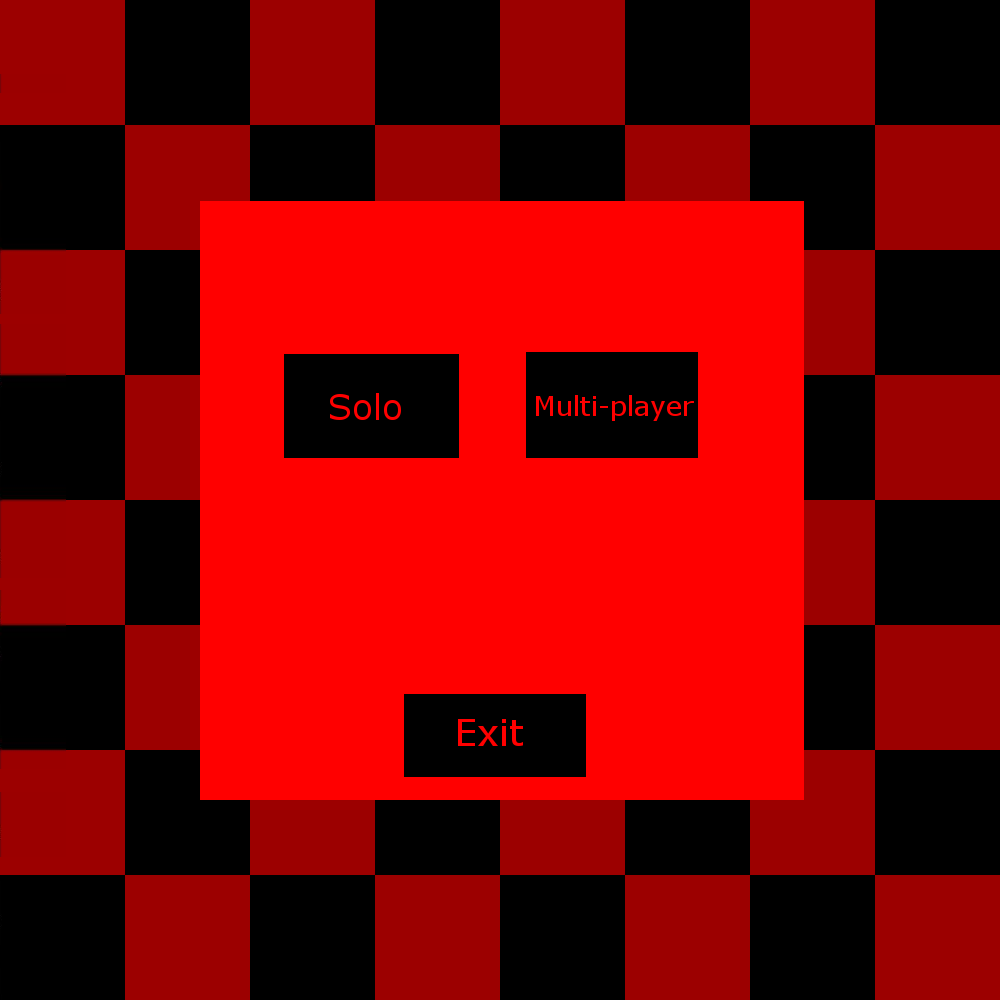
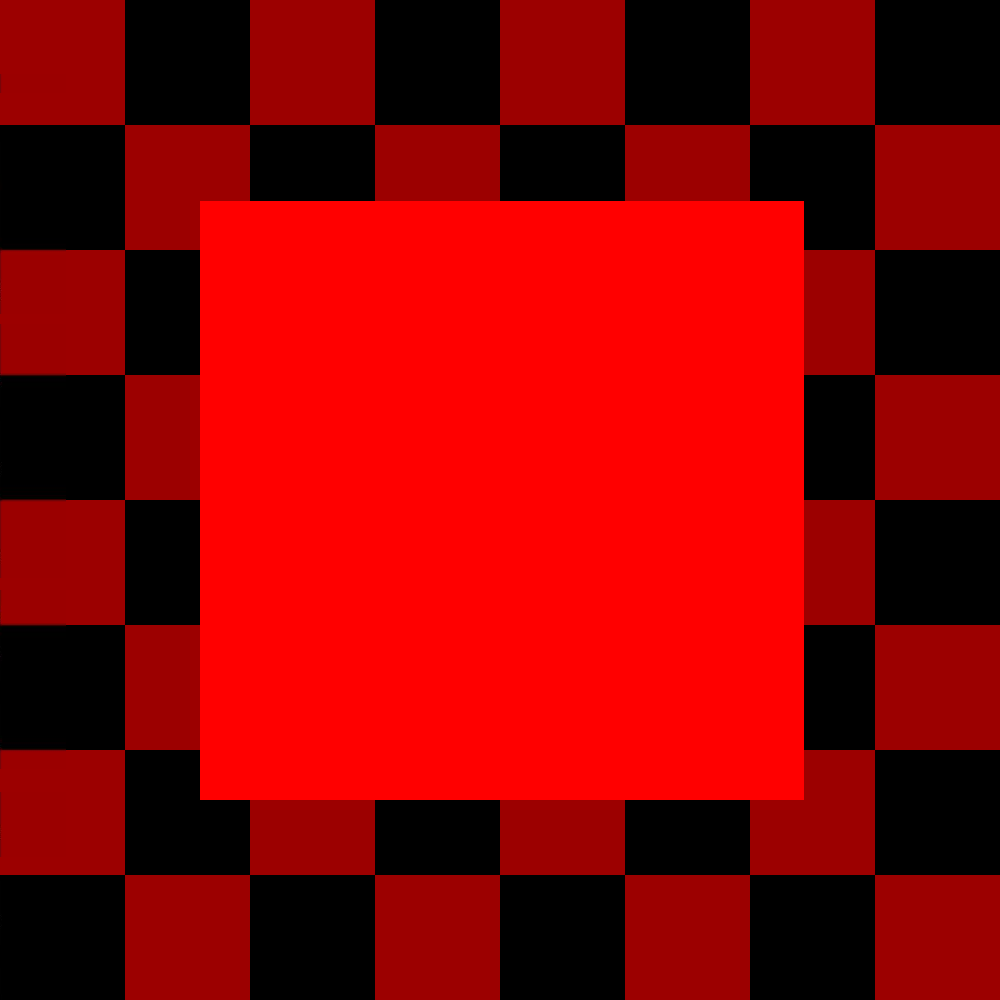
Fixed the double jump bug and changed the button setup

Changed region(s): [[0.527, 0.341, 0.713, 0.465], [0.279, 0.341, 0.465, 0.465], [0.403, 0.682, 0.589, 0.775]]

diff --git a/game.py b/game.py
@@ -81,33 +81,34 @@ PIECE_VOID = 9      # No piece drawn -- Border of BitMap
 ## and the top of the board with black pieces being up.                                         ##
 ## ============================================================================================ ##
 ## (2, 2) = Jump up right;         (2, -2) = Jump down left;                                    ##
-## (-2, -2) = Jump up left;     (-2, 2) = Jump up right;                                        ##
-## (1, 1) = Down right;              (1, -1) = Down left;                                       ##
-## (-1, -1) = Up left;          (-1, 1) = Up right;                                             ##
+## (-2, -2) = Jump up left;        (-2, 2) = Jump up right;                                     ##
+## (1, 1) = Down right;            (1, -1) = Down left;                                         ##
+## (-1, -1) = Up left;             (-1, 1) = Up right;                                          ##
 ## ============================================================================================ ##
 ## The numbers represent the difference of the pieces initial coordinates on the BitMap         ##
 ## - as in a set of numbers such as 7, 4; 7 being the X coordinate and 3 being the Y coordinate ##
 ## - and the pieces new coordinates. Thus if the piece moves from 7, 4 to 6, 5                  ##
-## - a perfectly legal move - it would return (-1, 1) which indicates Forward right.             ##
+## - a perfectly legal move - it would return (-1, 1) which indicates Forward right.            ##
 ## ============================================================================================ ##
 possibleMoves = [(2,2),(2,-2),(-2,-2),(-2,2),(1,1),(1,-1),(-1,1),(-1,-1)] # All possible moves
 movesWithoutJumps = [(1,1),(1,-1),(-1,-1),(-1,1)]                         # Moves without jumps
 ## ============================================================================================ ##
 
 ## ===================================================== State Variables =============================================================== ##
-gameOver = False        # Determines if game is over
-gameStarted = False     # Determines if game is started
-playerWon = "Winner"    # Keeps track of the winner
-redTurn = False         # Turn feature
-selectedPiece = None    # Shows if there is a piece selected
-computerPlayer = False  # Makes the computer play
-computerState = 0       # Used to see what the computer is doing - if it equals 1 it is a red piece, if it equals 2 it is a black piece
-computerMove = None     # Assigns the best move to the computer that the computer will then do
-computerTimer = 0       # Timer for the AI - used so that the computer is not super fast - makes it more playable 
-moveList = []           # Stores lists of moves that the AI uses
-playingRecord = False
-playState = 0
-playIndex = 0
+gameOver = False            # Determines if game is over
+gameStarted = False         # Determines if game is started
+playerWon = "Winner"        # Keeps track of the winner
+redTurn = False             # Turn feature
+selectedPiece = None        # Shows if there is a piece selected
+computerPlayer = False      # Makes the computer play
+computerState = 0           # Used to see what the computer is doing - if it equals 1 it is a red piece, if it equals 2 it is a black piece
+computerMove = None         # Assigns the best move to the computer that the computer will then do
+computerTimer = 0           # Timer for the AI - used so that the computer is not super fast - makes it more playable 
+moveList = []               # Stores lists of moves that the AI uses
+playingRecord = False       # Determines if the recording is being played
+playState = 0               # Used for going through the recorded game
+playIndex = 0               # Same as above
+awaitingSecondJump = False  # For double jump checking - making sure pieces are used correctly
 ## ===================================================================================================================================== ##
 
 ## ========================== Loads Images ============================== ##
@@ -189,10 +190,10 @@ class piece:
             unit_Y = diff_Y / abs(diff_Y)
             if abs(diff_X) > 1:
                 if board[temp_Y - unit_Y][temp_X - unit_X] == self.otherColor:    # If diff_X is greater than one and is a black piece it is a valid jump
-                    return True, move(self.x,self.y,temp_X,temp_Y) , True                             # Returns True (it can move) - temp_X and temp_Y (the coordinates after the move) - and True (since it is a jump move)
+                    return True, move(self.x,self.y,temp_X,temp_Y) , True         # Returns True (it can move) - temp_X and temp_Y (the coordinates after the move) - and True (since it is a jump move)
                 else:                                                             # Else the above falls through - returns False (it cannot move) 
                     return False,                                                 # returns False (it cannot move)  
-            return True, move(self.x,self.y,temp_X,temp_Y) , False                                    # Applies the first if - assuming all else falls through - returns True (it can move) - temp_X and temp_Y (the coordinates after the move) - and True (it is not a jump)
+            return True, move(self.x,self.y,temp_X,temp_Y) , False                # Applies the first if - assuming all else falls through - returns True (it can move) - temp_X and temp_Y (the coordinates after the move) - and False (it is not a jump)
         return False,                                                             # Assuming none of the above apply returns False (it cannot move) 
     
     def doMove(self, x, y, notReallyDead=False):
@@ -418,7 +419,7 @@ class recording:
 
 record = recording()
 
-def miniMax(p,depth):
+def miniMax(p, depth):
     
     """ 
         
@@ -528,8 +529,9 @@ def depthMiniMax(depth):
             realBestMove = value[1]
     return realBestMove  #return best move back to doComputer()
            
-            
 
+def alpha():   
+    pass
         
 
 def resetBoard():
@@ -579,7 +581,7 @@ def resetGame():
     resetBoard()
     resetPieces()      
           
-def getPiece(x, y, checkfake = False , checkKilled = False, forceColor = None):
+def getPiece(x, y, checkfake=False , checkKilled=False, forceColor=None):
     
     """ Determines which pieces are on the board and where they are """
     
@@ -635,15 +637,25 @@ class button:
     
     """ Used for the menu """
     
-    def __init__(self,x,y,w,h,f):
+    def __init__(self,x,y,w,h,text,f):
         
         """ Constructor for button class """
         
-        self.x = x  # X-coord for the button's box
-        self.y = y  # Y=coord for the button's box
-        self.w = w  # Width of the button's box
-        self.h = h  # Height of the button's box
-        self.f = f  # Name on the button
+        self.x = x       # X-coord for the button's box
+        self.y = y       # Y=coord for the button's box
+        self.w = w       # Width of the button's box
+        self.h = h       # Height of the button's box
+        self.text = text # The name of the button - text displayed on it
+        self.f = f       # The function called
+        
+    def draw(self):
+        pygame.draw.rect(windowSurface, BLACK, (self.x , self.y , self.w, self.h))
+        text = font2.render(self.text, True, WHITE)
+        textRect = text.get_rect()
+        textRect.centerx = self.x + (self.w/2)
+        textRect.centery = self.y + (self.h/2)
+        windowSurface.blit(text, textRect)
+         
         
     def inside(self,x,y):
         """    """
@@ -651,8 +663,10 @@ class button:
             return True
         return False
     
-buttonlist = [button(286,355,173,103,startsolo),button(527,353,171,105,startmulti),button(405,695,181,82,exitbutton),button(286,695,173,103,playRecordButton)]
-undoButton = button(0,0,boardOffSet_X,board_YRES,undoButton)
+buttonlist = [button(286,355,173,103, "Solo", startsolo),button(527,353,171,105,"Multi",startmulti),button(405,695,181,82,"Exit",exitbutton),button(286,500,173,103,"Play",playRecordButton)]
+undoButton = button(0,0,boardOffSet_X,board_YRES,"Undo",undoButton)
+
+
    
 def processClick(pos):
     
@@ -662,7 +676,7 @@ def processClick(pos):
         Utilizes getPiece and canMove functions 
         
     """
-    global selectedPiece, redTurn, moveList
+    global selectedPiece, redTurn, moveList, awaitingSecondJump
     x, y = pos
     if not gameStarted:
         for button in buttonlist:
@@ -684,8 +698,10 @@ def processClick(pos):
     if selectedPiece != None:
             if selectedPiece.x == grid_X and selectedPiece.y == grid_Y:
                 selectedPiece = None
+                if awaitingSecondJump:
+                    endPlayerTurn()
                 return
-            elif realPiece != None:
+            elif realPiece != None and not awaitingSecondJump:
                 if redTurn == realPiece.red:
                     selectedPiece = realPiece # The selected piece is now equal to realPiece 
             canMove = selectedPiece.canMove(grid_X - selectedPiece.x, grid_Y - selectedPiece.y)
@@ -702,18 +718,23 @@ def processClick(pos):
                                 continue
                             canMove = selectedPiece.canMove(check_X, check_Y)
                             if canMove[0] and canMove[2]:
+                                awaitingSecondJump = True
                                 return
-                selectedPiece = None
-                
-                if computerPlayer:
-                    doComputer()
-                    return
-                redTurn = not redTurn 
-                checkPieces()                        
+                endPlayerTurn()        
             return
     if realPiece != None:
         if redTurn == realPiece.red:
             selectedPiece = realPiece
+            
+def endPlayerTurn():
+    global selectedPiece,redTurn,awaitingSecondJump
+    selectedPiece = None
+    awaitingSecondJump = False
+    if computerPlayer:
+        doComputer()
+        return
+    redTurn = not redTurn 
+    checkPieces() 
        
 def doComputer():
     
@@ -760,6 +781,8 @@ def drawMenu():
     """ Draw's a menu picture """
     
     windowSurface.blit(introImage,(0, 0, board_XRES + boardOffSet_X, board_YRES))
+    for button in buttonlist:
+        button.draw()
     
 def eventCheck(event):
     
@@ -881,6 +904,9 @@ def updateComp():
                 checkPieces()         
 
 def updateRecord():
+    
+    """ Is responsible for playing back the recorded list """
+    
     global selectedPiece, playState,playIndex,playingRecord,computerTimer
     if playState > 0 and not gameOver:
         computerTimer += mainClock.get_time()
@@ -898,7 +924,8 @@ def updateRecord():
                 selectedPiece = None
                 computerTimer = 0
                 playState = 1
-                checkPieces()       
+                checkPieces()   
+                    
 def updateGame():
     
     """ 
